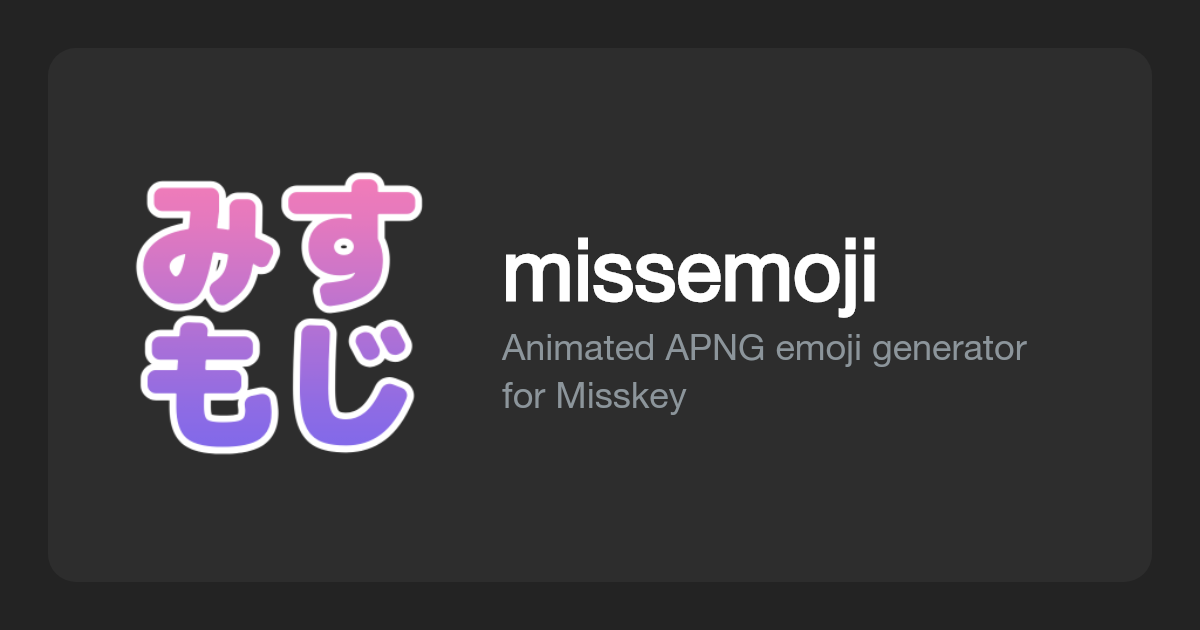
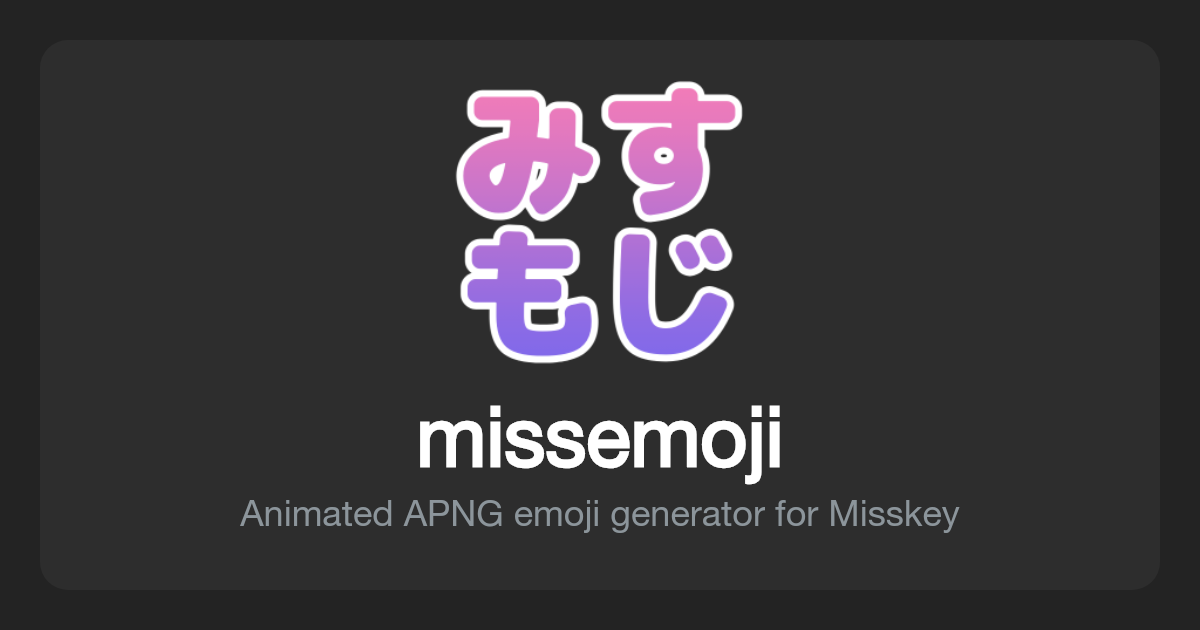
Add a square preview card for clients that crop to a square
Misskey's MkUrlPreview renders the thumbnail in a fixed 100x100 box with
background-size:cover, so the 1200x630 card was centre-cropped and lost
most of the icon and all of the wordmark.

public/og-square.png (1200x1200) is now the og:image, since summaly (and
consumers generally) take the FIRST og:image and Nuxt collapses repeated
og:image:* keys — declaring both left the second image with mismatched
dimensions, verified in the built Worker. twitter:image still points at
the wide card, so X, Discord and Slack lay it out as a banner.

The wide card was also restacked so the icon and wordmark sit inside its
own centre square, which is what survives if some other client crops the
same way.

Changed region(s): [[0.0925, 0.1206, 0.8633, 0.8444]]

diff --git a/nuxt.config.ts b/nuxt.config.ts
@@ -51,12 +51,22 @@ export default defineNuxtConfig({
         { property: 'og:title', content: SITE_TITLE },
         { property: 'og:description', content: SITE_DESCRIPTION },
         // Crawlers cannot resolve a relative image, so this must be absolute.
-        { property: 'og:image', content: `${SITE_URL}/og.png` },
+        //
+        // The SQUARE card is the og:image because consumers take the first one
+        // and Nuxt collapses repeated og:image:* keys, so a second image would
+        // end up with mismatched dimensions. Misskey (via summaly) reads this
+        // tag and renders it in a 100x100 cover-cropped box, where a wide card
+        // loses everything outside its centre. The square works everywhere:
+        // clients that want a banner get the wide one from twitter:image.
+        { property: 'og:image', content: `${SITE_URL}/og-square.png` },
+        { property: 'og:image:type', content: 'image/png' },
         { property: 'og:image:width', content: '1200' },
-        { property: 'og:image:height', content: '630' },
+        { property: 'og:image:height', content: '1200' },
         { property: 'og:image:alt', content: SITE_TITLE },
         { property: 'og:url', content: SITE_URL },
         // Twitter/X reads its own names and falls back to og: for the rest.
+        // X/Discord/Slack read twitter:* first and lay the image out wide, so
+        // they get the 1200x630 card even though og:image is the square one.
         { name: 'twitter:card', content: 'summary_large_image' },
         { name: 'twitter:title', content: SITE_TITLE },
         { name: 'twitter:description', content: SITE_DESCRIPTION },
